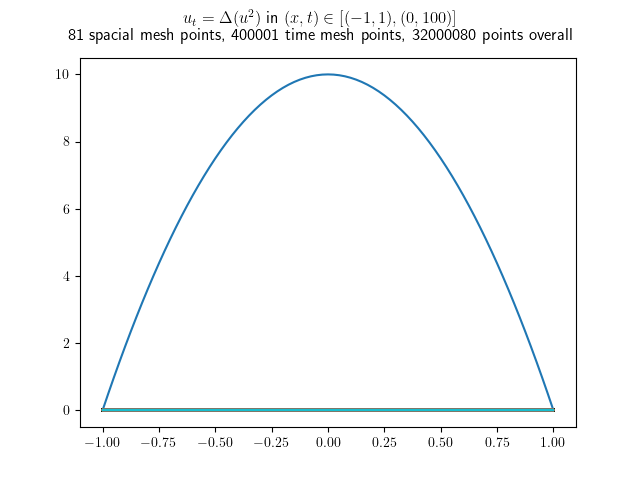
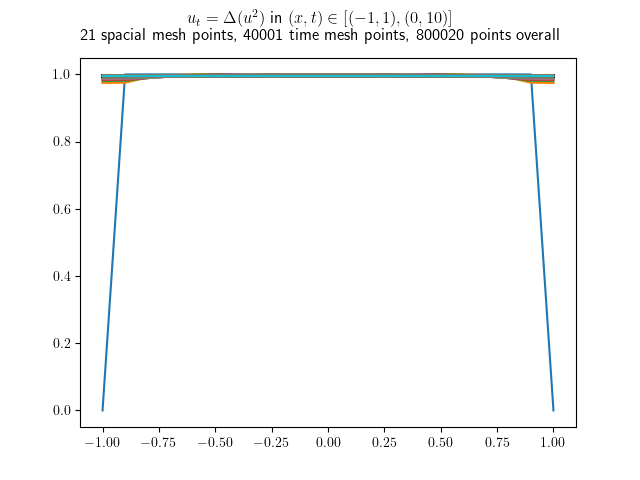
Fixed example of step function

diff --git a/Lab/PDE/u_t u2xx/nonlinear_u_t_u2_xx.py b/Lab/PDE/u_t u2xx/nonlinear_u_t_u2_xx.py
@@ -7,7 +7,7 @@ import matplotlib.pyplot as plt
 # M Final time step
 # deltaT Time mesh size
 # deltaX Space mesh size
-def nonlinearEvolve(a=-1,b=1,J=20,T=10000,M=10000000,u_initial = lambda x: 1 if (x < 1 and -1 < x) else 0):
+def nonlinearEvolve1(a=-1,b=1,J=20,T=10000,M=10000000,u_initial = lambda x: 1 if (x < 1 and -1 < x) else 0):
     deltaT = T/M        # Time mesh size
     deltaX = (b-a) / J  # Space mesh size
     cfl = deltaT / (deltaX ** 2)            # Want this below 1/2
@@ -20,12 +20,9 @@ def nonlinearEvolve(a=-1,b=1,J=20,T=10000,M=10000000,u_initial = lambda x: 1 if 
         ump1 = [[0 for _ in range(0, J + 1)]]
         # Explicit Scheme
         for j in range(1,J):
-            #ump1[0][j] = u[m][j] + cfl * (u[m][j+1] - 2 * u[m][j] + u[m][j-1])
             ump1[0][j] = u[m][j] + cfl * (2 * u[m][j] * (u[m][j+1] - 2 * u[m][j] + u[m][j-1]) + 0.5 * ((u[m][j+1] - u[m][j-1])**2))
         ump1[0][0] = u[m][j] + cfl * (2 * u[m][0] * (u[m][1] - 2 * u[m][0] + u[m][J]) + 0.5 * ((u[m][1] - u[m][J])**2))
-        #ump1[0][0] = u[m][0] + cfl * (u[m][1] - 2 * u[m][0] + u[m][J])
         ump1[0][J] = u[m][j] + cfl * (2 * u[m][J] * (u[m][0] - 2 * u[m][J] + u[m][J-1]) + 0.5 * ((u[m][0] - u[m][J-1])**2))
-        #ump1[0][J] = u[m][J] + cfl * (u[m][0] - 2 * u[m][J] + u[m][J-1])
         u += ump1
     return u
 
@@ -33,13 +30,13 @@ def nonlinearEvolve(a=-1,b=1,J=20,T=10000,M=10000000,u_initial = lambda x: 1 if 
 if __name__ == "__main__":
     a = -1
     b = 1
-    J = 80                 # Final spacial point index
-    T = 100                # Final time (in second)
-    M = 400000             # Final time step
+    J = 20                 # Final spacial point index
+    T = 10                # Final time (in second)
+    M = 40000             # Final time step
     deltaT = T/M        # Time mesh size
     deltaX = (b-a) / J  # Space mesh size
-    u_initial = lambda x : -(x-1)*(x+1)*10
-    u = nonlinearEvolve(a, b, J, T, M, u_initial=u_initial)
+    u_initial = lambda x: 1 if (x < 1 and -1 < x) else 0
+    u = nonlinearEvolve1(a, b, J, T, M, u_initial)
     deltaX = (b-a) / J  # Space mesh size
     
     plt.rcParams['text.usetex'] = True
